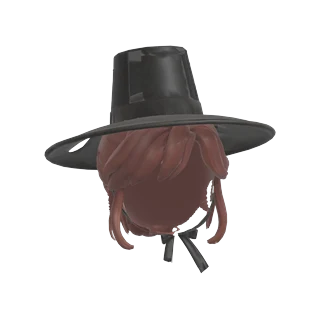
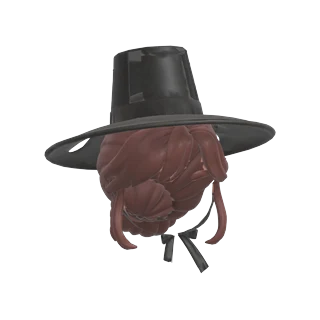
fix(art): 갓을 쓴 여자 머리를 기본 머리 모양의 낮은 쪽머리로 다시 만들기 (#341)
- 포니테일을 잘라 메운 뒤통수가 높낮이·음영이 옆머리와 달라 머리카락이 없는 것처럼 보였음
- 기본 머리 시트를 Gemini로 낮은 쪽머리로 바꾸고 Tripo로 한 덩어리 머리를 새로 만듦
- recolor_hair.py: 새 머리 텍스처를 기본 머리 색에 맞춤
- pose_sheet.py keep=: 머리 등 아이템을 남겨 시트를 그림
- 더 쓰지 않는 no_ponytail.py 삭제
- 옷 파일 캐시 번호 rig=22

diff --git a/frontend/src/world/art/outfitSources.ts b/frontend/src/world/art/outfitSources.ts
@@ -3,7 +3,7 @@ import type { GLTF } from 'three/addons/loaders/GLTFLoader.js'
 import { ParkAssetLoader } from './assetLoader'
 
 /** Outfit files are fetched when someone first wears one, not with the park: most visitors never need them. */
-export const outfitUrl = (name: string) => `/art/characters/outfits/${name}.glb?rig=21`
+export const outfitUrl = (name: string) => `/art/characters/outfits/${name}.glb?rig=22`
 
 const loaded = new Map<string, GLTF>()
 const requested = new Set<string>()

diff --git a/tools/character/recolor_hair.py b/tools/character/recolor_hair.py
@@ -1,0 +1,40 @@
+"""One hair item's texture recoloured to another's colours: -- <shared.glb> <out.glb> item=j like=e
+Mean and spread per channel of the texels the item's faces use are moved to those of `like`'s (a Tripo remake of the
+girl's default hair came out lighter and pinker than the default hair, user). The item gets its own copy of the image."""
+import bpy, sys, os, re
+import numpy as np
+
+a = sys.argv[sys.argv.index('--') + 1:]
+src, out = a[0], os.path.abspath(a[1])
+opt = dict(x.split('=', 1) for x in a[2:])
+bpy.ops.wm.read_factory_settings(use_empty=True)
+bpy.ops.import_scene.gltf(filepath=src)
+base = lambda o: re.sub(r'(_\d+)?(\.\d+)?$', '', o.name)
+item = lambda n: [o for o in bpy.data.objects if o.type == 'MESH' and base(o) == f'item__HAIR__{n}']
+
+
+def texels(o):
+    img = next(n.image for m in o.data.materials for n in m.node_tree.nodes if n.type == 'TEX_IMAGE' and n.image)
+    w_, h_ = img.size; P = np.array(img.pixels[:], np.float32).reshape(h_, w_, -1)
+    uvd = o.data.uv_layers.active.data
+    T = [P[min(h_ - 1, int(uvd[p.loop_indices[0]].uv.y * h_)), min(w_ - 1, int(uvd[p.loop_indices[0]].uv.x * w_)), :3]
+         for p in list(o.data.polygons)[::3]]
+    return img, P, np.array(T)
+
+
+_, _, Tl = texels(item(opt.get('like', 'e'))[0])
+for o in item(opt['item']):
+    img, P, Ti = texels(o)
+    mi, si, ml, sl = Ti.mean(0), Ti.std(0) + 1e-4, Tl.mean(0), Tl.std(0)
+    Q = P.copy(); Q[..., :3] = np.clip((P[..., :3] - mi) / si * sl + ml, 0, 1)
+    new = bpy.data.images.new(f'{img.name}_recolored', img.size[0], img.size[1], alpha=True)
+    new.pixels[:] = Q.ravel(); new.pack()
+    for i, m in enumerate(o.data.materials):
+        m2 = m.copy(); o.data.materials[i] = m2
+        for nd in m2.node_tree.nodes:
+            if nd.type == 'TEX_IMAGE' and nd.image: nd.image = new
+    print('RECOLOR', o.name, mi.round(2).tolist(), '->', ml.round(2).tolist())
+arm = next((o for o in bpy.data.objects if o.type == 'ARMATURE'), None)
+bpy.ops.export_scene.gltf(filepath=out, export_format='GLB', export_animations=True, export_animation_mode='NLA_TRACKS',
+                          export_skins=True, export_apply=False, export_image_format='AUTO')
+print('RESULT', out)

diff --git a/tools/character/pose_sheet.py b/tools/character/pose_sheet.py
@@ -1,5 +1,5 @@
 """The shared body alone in the game's rest (arms down, game_pose.py), rendered from four sides as a 2x2 sheet
-like the original base sheet (front, right side, back, left side), for generating outfits: -- <shared_layers.glb> <out.png> [size=1024] [pose=t]
+like the original base sheet (front, right side, back, left side), for generating outfits: -- <shared_layers.glb> <out.png> [size=1024] [pose=t] [keep=item__HAIR__e]
 (pose=t keeps the T-pose; outfits are generated on it, see docs/character-outfits.md)
 Rigid outfits made on the T-pose sheet had to be bent 70 degrees at the shoulders and broke."""
 import bpy, sys, os, math, re
@@ -13,7 +13,9 @@ from game_pose import bind_pose
 bpy.ops.wm.read_factory_settings(use_empty=True); bpy.ops.import_scene.gltf(filepath=src)
 arm = next(o for o in bpy.data.objects if o.type == 'ARMATURE')
 for o in list(bpy.data.objects):
-    if o.type == 'MESH' and not re.sub(r'\.\d+$', '', o.name).startswith('body'): bpy.data.objects.remove(o)
+    # (keep=item__HAIR__e: those items stay too, e.g. the girl's hair, for a hairstyle sheet)
+    keep = tuple(['body'] + [k for k in opt.get('keep', '').split(',') if k])
+    if o.type == 'MESH' and not re.sub(r'\.\d+$', '', o.name).startswith(keep): bpy.data.objects.remove(o)
 if opt.get('pose', 'down') == 'down': bind_pose(arm)
 else:   # pose=t: the body's own T-pose (outfits for Tripo are generated on it; the arms-down remake was rejected)
     for t in (arm.animation_data.nla_tracks if arm.animation_data else []): t.mute = True

diff --git a/docs/character-outfits.md b/docs/character-outfits.md
@@ -134,7 +134,7 @@
 - 조각 이름은 `item__HAIR__<문자>__for_man` / `item__HAIR__<문자>__for_girl`이다. 게임은 그 캐릭터에만 그린다(`characterLook.ts`).
 - 남자 머리카락은 기본 머리 `b`를 복사해 쓴다. Tripo 머리보다 깔끔하고 기본 모습과 머릿결이 같다.
 - 여자는 기본 머리 `e`(포니테일)를 쓰면 모자 아래에서 어색해서, 모자마다 머리를 따로 둔다.
-  - **갓: `j`, 기본 머리 `e`에서 포니테일만 뗀 머리.** 앞머리 쪽머리 `i`와 나란히 비교한 뒤 골랐다(user). 모자를 벗은 모습과 머리가 이어진다.
+  - **갓: `j`, 기본 머리 모양에 포니테일 대신 낮은 쪽.** 앞머리 쪽머리 `i`와 나란히 비교한 뒤 기본 머리 쪽을 골랐다(user). 모자를 벗은 모습과 앞머리·옆머리가 이어진다.
   - **장군 투구: `i`(눈썹을 덮는 두꺼운 앞머리, 얼굴 옆으로 내린 가는 머리, 낮은 쪽머리).** 아래는 `i`를 만든 순서다.
   - 처음 만든 가르마 올백 쪽머리는 이마가 다 드러나 정면에서 남자처럼 보였다(user).
   - 두 번째로 만든 눈썹이 보이는 시스루 앞머리는, 모델 눈썹을 지운 자리가 앞머리 끝에서 들쭉날쭉하게 잘려 이상해 보였다(user). 그래서 눈썹을 덮는 앞머리로 바꿨다. 이제 눈썹은 앞머리 밑에 가려져 지울 필요가 없다(`split_head.py`의 `brows=`는 이때 쓴 옵션이다).
@@ -151,14 +151,16 @@
 "$B" -b --python tools/character/fit_outfit.py -- shared_layers_h.glb girl_fringe_split.glb shared_layers_hi.glb set=i s=1.065 head_fit=91 "map=HAIR:90,2"
 ```
 
-- `j`는 `no_ponytail.py`가 만든다. 뒤쪽 절반(y > 0)에서 몸 표면과 3.5 cm 넘게 떨어진 면이 포니테일과 머리끈이다.
-  - 이 면을 지우면 뒤통수 아래가 비어 빡빡이처럼 보였다(user). 포니테일을 뒤통수에 눕혀 덮는 방법(`squash=`)도 해 봤지만, 구겨진 조각처럼 지저분했다(user).
-  - 그래서 `back=i`로 투구용 쪽머리 `i`의 뒤쪽(y > −0.04: 목덜미까지 매끈한 머리와 낮은 쪽)을 가져와 밑에 깐다. 텍스처는 `j`의 머리색(채널별 평균·퍼짐)에 맞춰 다시 칠한다. 앞쪽 가닥에 가려 경계가 보이지 않는다. 귀 옆 면도 그대로 둔다(빼면 귀 뒤 목덜미가 비어 보였다). 밑층은 목덜미 높이 0.60까지 내린다(`cap_nape=0.6`, 0.64면 쪽 옆 목덜미에 피부가 보였다).
-  - 귀(|x| > 0.158, y −0.01~0.065, 높이 0.79 아래)에는 아무것도 얹지 않는다. 처음에는 귀가 갈색으로 덮였다.
-- `cap=1`: 자르면서 옆 가닥 사이가 벌어져 머리 옆이 구멍 난 것처럼 비어 보였다(user). 머리 밑 두피(이마 쪽 `cap_y=-0.05`보다 뒤, 높이 `cap_z=0.7` 위) 위 2.5 mm에 머리색 한 가지의 밑층을 깔아, 틈으로 머리색 그늘이 보이게 한다. 이마는 빼서 앞머리 사이가 갈색으로 막히지 않게 한다.
+- `j`는 기본 머리를 Tripo로 다시 만든 머리다.
+  - 처음에는 기본 머리 `e`에서 포니테일만 잘라 냈다. 그러자 뒤통수 아래가 비어 빡빡이처럼 보였다(user). 포니테일을 뒤통수에 눕히거나 다른 머리의 뒤쪽을 붙여 메워 봤지만, 높낮이와 음영이 옆머리와 달라 여전히 머리카락이 없는 것처럼 보였다(user). 한 머리를 이어 붙이는 방법으로는 자연스럽지 않아서, 한 덩어리 머리를 새로 만들었다.
+  1. `pose_sheet.py pose=t keep=item__HAIR__e`로 기본 머리를 쓴 몸의 T자 시트를 그린다.
+  2. Gemini에 넣고 포니테일과 분홍 머리끈만 목덜미의 낮은 쪽으로 바꾸게 한다. 앞머리·옆머리·색은 그대로, 뒤통수는 옆머리와 같은 볼륨과 머릿결로 채운다.
+  3. Tripo 여러 면, Generate in Parts, Balanced, 4K 텍스처. 이번에는 머리카락(`tripo_part_0`)과 얼굴(`tripo_part_2`)이 따로 나와 나누지 않고 바로 맞춘다.
+  4. Tripo 텍스처가 기본 머리보다 밝고 분홍빛이라, `recolor_hair.py`로 기본 머리 `e`의 색(채널별 평균·퍼짐)에 맞춘다.
 
 ```bash
-"$B" -b --python tools/character/no_ponytail.py -- shared_layers_hi.glb shared_layers_hij.glb new=j dist=0.035 ymin=0.0 cap=1 cap_nape=0.6 back=i back_y=-0.04
+"$B" -b --python tools/character/fit_outfit.py -- shared_layers_hi.glb girl_lowbun_parts.glb hij_t.glb set=j s=1.065 head_fit=2 "map=HAIR:0"
+"$B" -b --python tools/character/recolor_hair.py -- hij_t.glb shared_layers_hij.glb item=j like=e
 ```
 
 - `i`와 `j`는 모자 아래 머리의 원본일 뿐이라 아이템으로 팔지 않는다(옷 파일에도 넣지 않는다).
